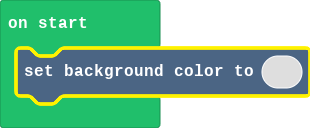
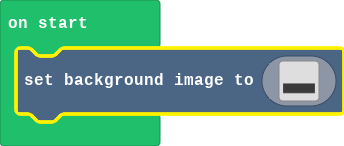
Update main.blocks, main.ts

Changed region(s): [[0.029, 0.0, 1.0, 1.0], [0.1161, 0.125, 0.2903, 0.2188], [0.0, 0.125, 0.0871, 0.2188]]

diff --git a/main.ts b/main.ts
@@ -1,1 +1,122 @@
-scene.setBackgroundColor(0)
+scene.setBackgroundImage(img`
+    ................................................................................................................................................................
+    ................................................................................................................................................................
+    ................................................................................................................................................................
+    ................................................................................................................................................................
+    ................................................................................................................................................................
+    ................................................................................................................................................................
+    ................................................................................................................................................................
+    ................................................................................................................................................................
+    ................................................................................................................................................................
+    ................................................................................................................................................................
+    ................................................................................................................................................................
+    ................................................................................................................................................................
+    ................................................................................................................................................................
+    ................................................................................................................................................................
+    ................................................................................................................................................................
+    ................................................................................................................................................................
+    ................................................................................................................................................................
+    ................................................................................................................................................................
+    ................................................................................................................................................................
+    ................................................................................................................................................................
+    ................................................................................................................................................................
+    ................................................................................................................................................................
+    ................................................................................................................................................................
+    ................................................................................................................................................................
+    ................................................................................................................................................................
+    ................................................................................................................................................................
+    ................................................................................................................................................................
+    ................................................................................................................................................................
+    ................................................................................................................................................................
+    ................................................................................................................................................................
+    ................................................................................................................................................................
+    ................................................................................................................................................................
+    ................................................................................................................................................................
+    ................................................................................................................................................................
+    ................................................................................................................................................................
+    ................................................................................................................................................................
+    ................................................................................................................................................................
+    ................................................................................................................................................................
+    ................................................................................................................................................................
+    ................................................................................................................................................................
+    ................................................................................................................................................................
+    ................................................................................................................................................................
+    ................................................................................................................................................................
+    ................................................................................................................................................................
+    ................................................................................................................................................................
+    ................................................................................................................................................................
+    ................................................................................................................................................................
+    ................................................................................................................................................................
+    ................................................................................................................................................................
+    ................................................................................................................................................................
+    ................................................................................................................................................................
+    ................................................................................................................................................................
+    ................................................................................................................................................................
+    ................................................................................................................................................................
+    ................................................................................................................................................................
+    ................................................................................................................................................................
+    ................................................................................................................................................................
+    ................................................................................................................................................................
+    ................................................................................................................................................................
+    ................................................................................................................................................................
+    ................................................................................................................................................................
+    ................................................................................................................................................................
+    ................................................................................................................................................................
+    ................................................................................................................................................................
+    ................................................................................................................................................................
+    ................................................................................................................................................................
+    ................................................................................................................................................................
+    ................................................................................................................................................................
+    ................................................................................................................................................................
+    ................................................................................................................................................................
+    ................................................................................................................................................................
+    ................................................................................................................................................................
+    ................................................................................................................................................................
+    ffffffffffffffffffffffffffffffffffffffffffffffffffffffffffffffffffffffffffffffffffffffffffffffffffffffffffffffffffffffffffffffffffffffffffffffffffffffffffffffff
+    ffffffffffffffffffffffffffffffffffffffffffffffffffffffffffffffffffffffffffffffffffffffffffffffffffffffffffffffffffffffffffffffffffffffffffffffffffffffffffffffff
+    ffffffffffffffffffffffffffffffffffffffffffffffffffffffffffffffffffffffffffffffffffffffffffffffffffffffffffffffffffffffffffffffffffffffffffffffffffffffffffffffff
+    ffffffffffffffffffffffffffffffffffffffffffffffffffffffffffffffffffffffffffffffffffffffffffffffffffffffffffffffffffffffffffffffffffffffffffffffffffffffffffffffff
+    ffffffffffffffffffffffffffffffffffffffffffffffffffffffffffffffffffffffffffffffffffffffffffffffffffffffffffffffffffffffffffffffffffffffffffffffffffffffffffffffff
+    ffffffffffffffffffffffffffffffffffffffffffffffffffffffffffffffffffffffffffffffffffffffffffffffffffffffffffffffffffffffffffffffffffffffffffffffffffffffffffffffff
+    ffffffffffffffffffffffffffffffffffffffffffffffffffffffffffffffffffffffffffffffffffffffffffffffffffffffffffffffffffffffffffffffffffffffffffffffffffffffffffffffff
+    ffffffffffffffffffffffffffffffffffffffffffffffffffffffffffffffffffffffffffffffffffffffffffffffffffffffffffffffffffffffffffffffffffffffffffffffffffffffffffffffff
+    ffffffffffffffffffffffffffffffffffffffffffffffffffffffffffffffffffffffffffffffffffffffffffffffffffffffffffffffffffffffffffffffffffffffffffffffffffffffffffffffff
+    ffffffffffffffffffffffffffffffffffffffffffffffffffffffffffffffffffffffffffffffffffffffffffffffffffffffffffffffffffffffffffffffffffffffffffffffffffffffffffffffff
+    ffffffffffffffffffffffffffffffffffffffffffffffffffffffffffffffffffffffffffffffffffffffffffffffffffffffffffffffffffffffffffffffffffffffffffffffffffffffffffffffff
+    ffffffffffffffffffffffffffffffffffffffffffffffffffffffffffffffffffffffffffffffffffffffffffffffffffffffffffffffffffffffffffffffffffffffffffffffffffffffffffffffff
+    ffffffffffffffffffffffffffffffffffffffffffffffffffffffffffffffffffffffffffffffffffffffffffffffffffffffffffffffffffffffffffffffffffffffffffffffffffffffffffffffff
+    ffffffffffffffffffffffffffffffffffffffffffffffffffffffffffffffffffffffffffffffffffffffffffffffffffffffffffffffffffffffffffffffffffffffffffffffffffffffffffffffff
+    ffffffffffffffffffffffffffffffffffffffffffffffffffffffffffffffffffffffffffffffffffffffffffffffffffffffffffffffffffffffffffffffffffffffffffffffffffffffffffffffff
+    ffffffffffffffffffffffffffffffffffffffffffffffffffffffffffffffffffffffffffffffffffffffffffffffffffffffffffffffffffffffffffffffffffffffffffffffffffffffffffffffff
+    ffffffffffffffffffffffffffffffffffffffffffffffffffffffffffffffffffffffffffffffffffffffffffffffffffffffffffffffffffffffffffffffffffffffffffffffffffffffffffffffff
+    ffffffffffffffffffffffffffffffffffffffffffffffffffffffffffffffffffffffffffffffffffffffffffffffffffffffffffffffffffffffffffffffffffffffffffffffffffffffffffffffff
+    ffffffffffffffffffffffffffffffffffffffffffffffffffffffffffffffffffffffffffffffffffffffffffffffffffffffffffffffffffffffffffffffffffffffffffffffffffffffffffffffff
+    ffffffffffffffffffffffffffffffffffffffffffffffffffffffffffffffffffffffffffffffffffffffffffffffffffffffffffffffffffffffffffffffffffffffffffffffffffffffffffffffff
+    ffffffffffffffffffffffffffffffffffffffffffffffffffffffffffffffffffffffffffffffffffffffffffffffffffffffffffffffffffffffffffffffffffffffffffffffffffffffffffffffff
+    ffffffffffffffffffffffffffffffffffffffffffffffffffffffffffffffffffffffffffffffffffffffffffffffffffffffffffffffffffffffffffffffffffffffffffffffffffffffffffffffff
+    ffffffffffffffffffffffffffffffffffffffffffffffffffffffffffffffffffffffffffffffffffffffffffffffffffffffffffffffffffffffffffffffffffffffffffffffffffffffffffffffff
+    ffffffffffffffffffffffffffffffffffffffffffffffffffffffffffffffffffffffffffffffffffffffffffffffffffffffffffffffffffffffffffffffffffffffffffffffffffffffffffffffff
+    ffffffffffffffffffffffffffffffffffffffffffffffffffffffffffffffffffffffffffffffffffffffffffffffffffffffffffffffffffffffffffffffffffffffffffffffffffffffffffffffff
+    ffffffffffffffffffffffffffffffffffffffffffffffffffffffffffffffffffffffffffffffffffffffffffffffffffffffffffffffffffffffffffffffffffffffffffffffffffffffffffffffff
+    ffffffffffffffffffffffffffffffffffffffffffffffffffffffffffffffffffffffffffffffffffffffffffffffffffffffffffffffffffffffffffffffffffffffffffffffffffffffffffffffff
+    ffffffffffffffffffffffffffffffffffffffffffffffffffffffffffffffffffffffffffffffffffffffffffffffffffffffffffffffffffffffffffffffffffffffffffffffffffffffffffffffff
+    ffffffffffffffffffffffffffffffffffffffffffffffffffffffffffffffffffffffffffffffffffffffffffffffffffffffffffffffffffffffffffffffffffffffffffffffffffffffffffffffff
+    ffffffffffffffffffffffffffffffffffffffffffffffffffffffffffffffffffffffffffffffffffffffffffffffffffffffffffffffffffffffffffffffffffffffffffffffffffffffffffffffff
+    ffffffffffffffffffffffffffffffffffffffffffffffffffffffffffffffffffffffffffffffffffffffffffffffffffffffffffffffffffffffffffffffffffffffffffffffffffffffffffffffff
+    ffffffffffffffffffffffffffffffffffffffffffffffffffffffffffffffffffffffffffffffffffffffffffffffffffffffffffffffffffffffffffffffffffffffffffffffffffffffffffffffff
+    ffffffffffffffffffffffffffffffffffffffffffffffffffffffffffffffffffffffffffffffffffffffffffffffffffffffffffffffffffffffffffffffffffffffffffffffffffffffffffffffff
+    ffffffffffffffffffffffffffffffffffffffffffffffffffffffffffffffffffffffffffffffffffffffffffffffffffffffffffffffffffffffffffffffffffffffffffffffffffffffffffffffff
+    ffffffffffffffffffffffffffffffffffffffffffffffffffffffffffffffffffffffffffffffffffffffffffffffffffffffffffffffffffffffffffffffffffffffffffffffffffffffffffffffff
+    ffffffffffffffffffffffffffffffffffffffffffffffffffffffffffffffffffffffffffffffffffffffffffffffffffffffffffffffffffffffffffffffffffffffffffffffffffffffffffffffff
+    ffffffffffffffffffffffffffffffffffffffffffffffffffffffffffffffffffffffffffffffffffffffffffffffffffffffffffffffffffffffffffffffffffffffffffffffffffffffffffffffff
+    ffffffffffffffffffffffffffffffffffffffffffffffffffffffffffffffffffffffffffffffffffffffffffffffffffffffffffffffffffffffffffffffffffffffffffffffffffffffffffffffff
+    ffffffffffffffffffffffffffffffffffffffffffffffffffffffffffffffffffffffffffffffffffffffffffffffffffffffffffffffffffffffffffffffffffffffffffffffffffffffffffffffff
+    ffffffffffffffffffffffffffffffffffffffffffffffffffffffffffffffffffffffffffffffffffffffffffffffffffffffffffffffffffffffffffffffffffffffffffffffffffffffffffffffff
+    ffffffffffffffffffffffffffffffffffffffffffffffffffffffffffffffffffffffffffffffffffffffffffffffffffffffffffffffffffffffffffffffffffffffffffffffffffffffffffffffff
+    ffffffffffffffffffffffffffffffffffffffffffffffffffffffffffffffffffffffffffffffffffffffffffffffffffffffffffffffffffffffffffffffffffffffffffffffffffffffffffffffff
+    ffffffffffffffffffffffffffffffffffffffffffffffffffffffffffffffffffffffffffffffffffffffffffffffffffffffffffffffffffffffffffffffffffffffffffffffffffffffffffffffff
+    ffffffffffffffffffffffffffffffffffffffffffffffffffffffffffffffffffffffffffffffffffffffffffffffffffffffffffffffffffffffffffffffffffffffffffffffffffffffffffffffff
+    ffffffffffffffffffffffffffffffffffffffffffffffffffffffffffffffffffffffffffffffffffffffffffffffffffffffffffffffffffffffffffffffffffffffffffffffffffffffffffffffff
+    ffffffffffffffffffffffffffffffffffffffffffffffffffffffffffffffffffffffffffffffffffffffffffffffffffffffffffffffffffffffffffffffffffffffffffffffffffffffffffffffff
+    ffffffffffffffffffffffffffffffffffffffffffffffffffffffffffffffffffffffffffffffffffffffffffffffffffffffffffffffffffffffffffffffffffffffffffffffffffffffffffffffff
+    `)
